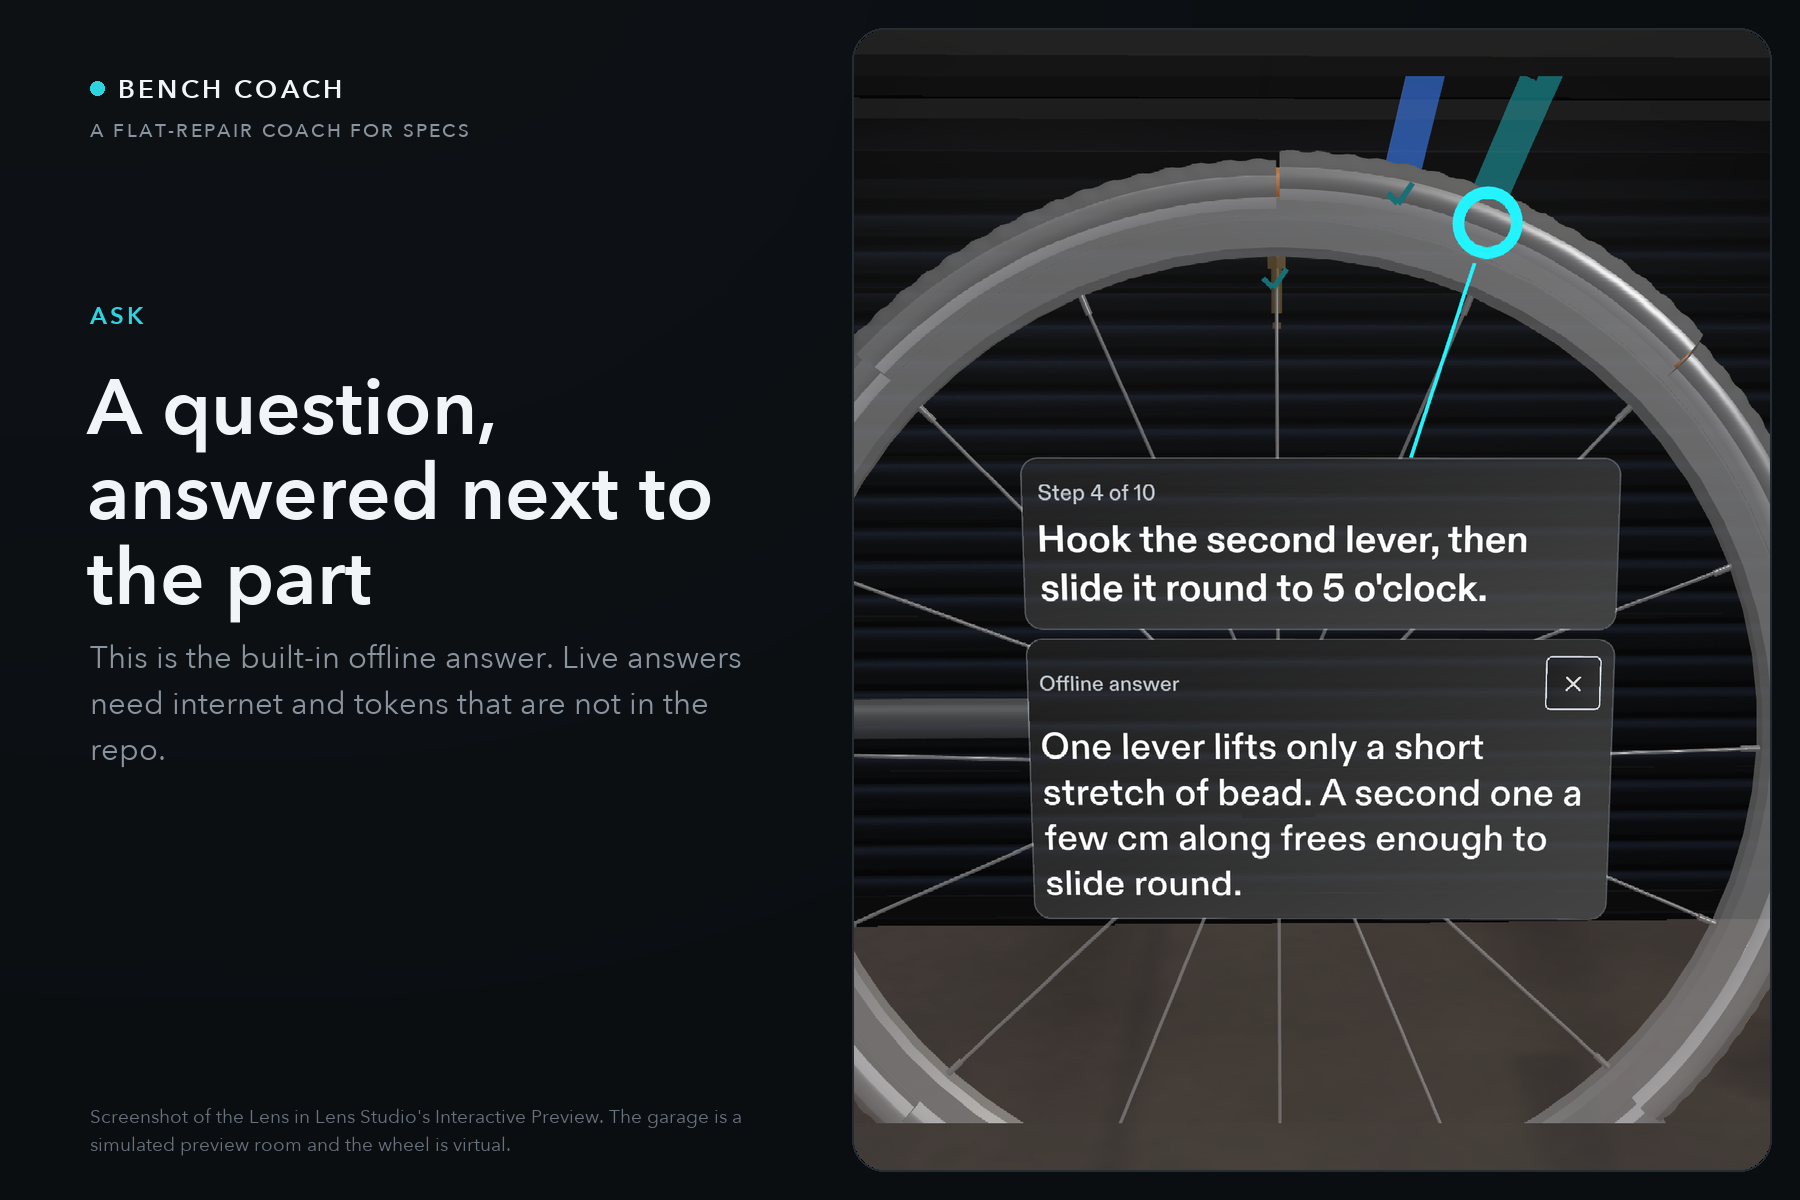
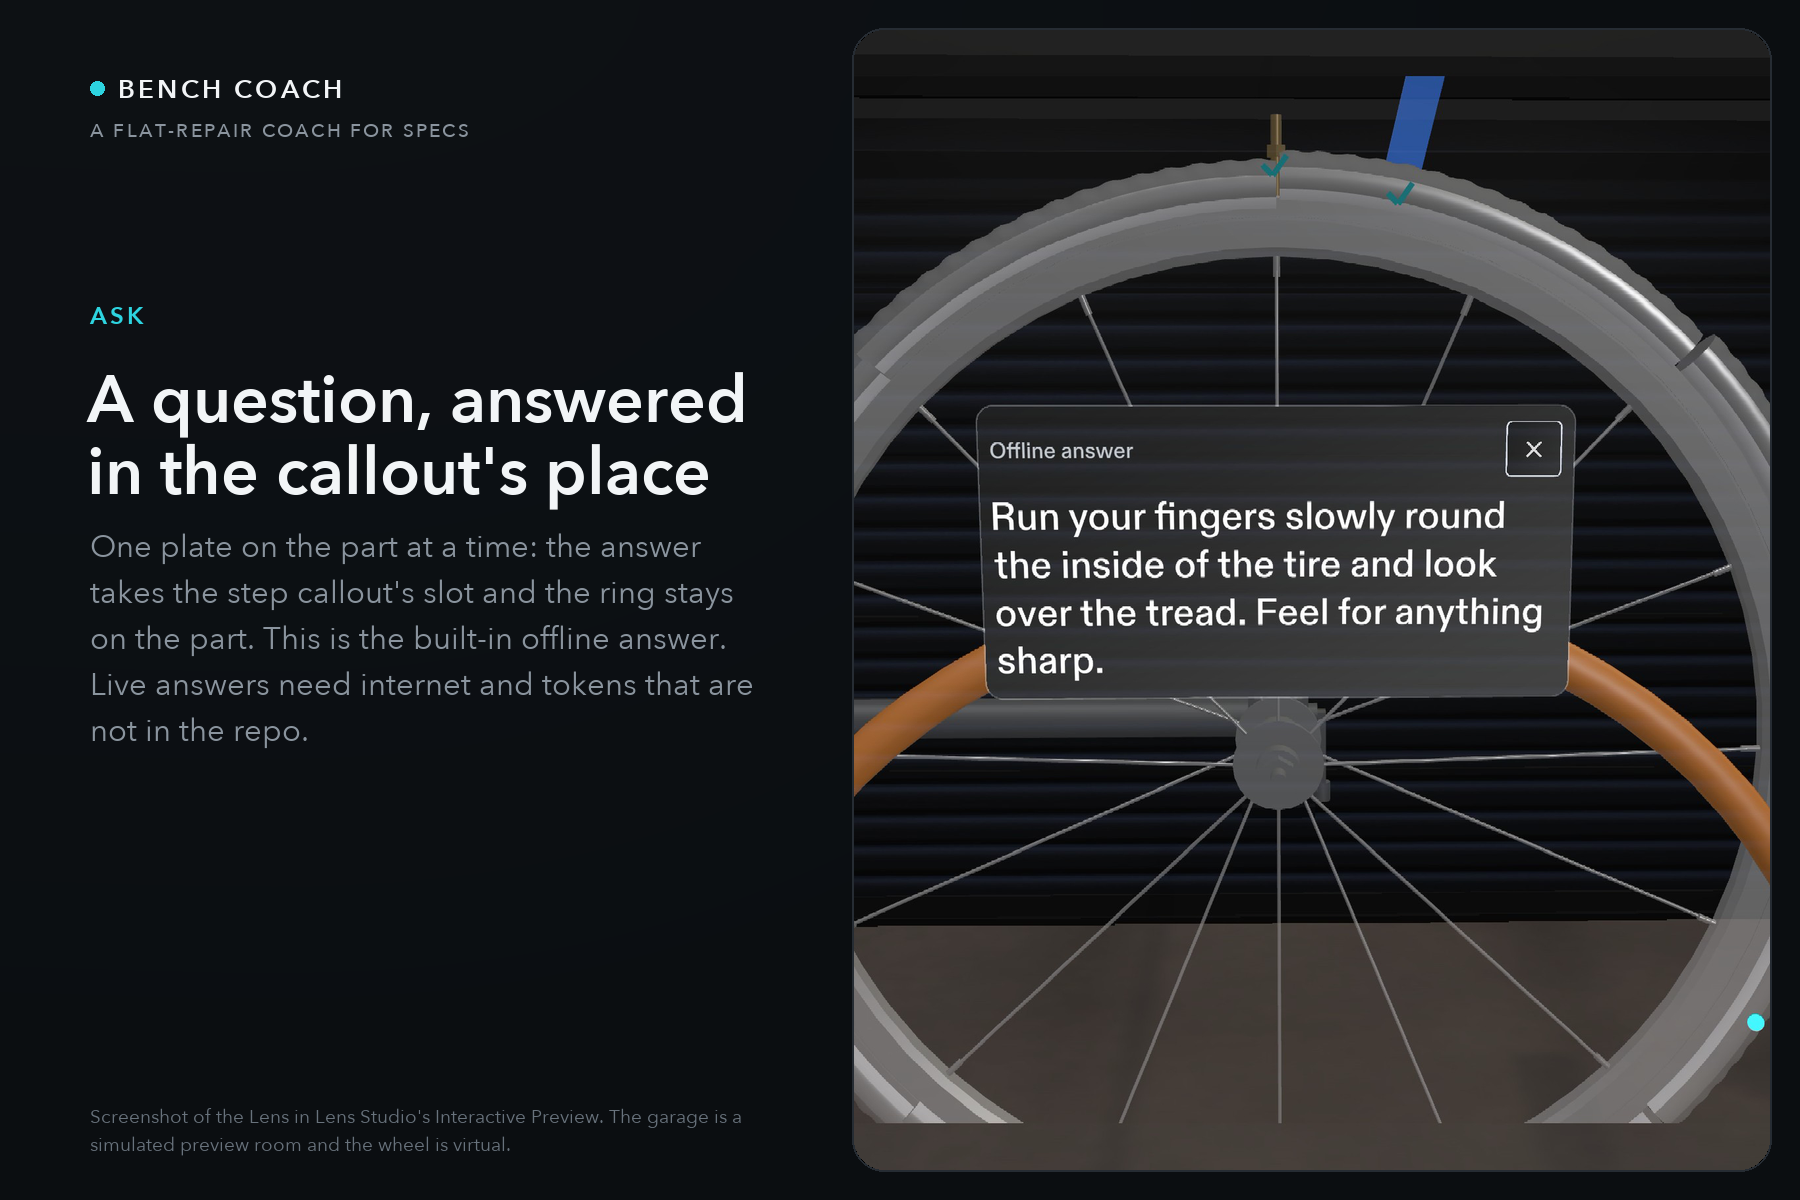
Gallery: the Ask layout and the three-button dock after pass B

diff --git a/README.md b/README.md
@@ -145,6 +145,8 @@ The brief came first: [devpost/design-brief.md](devpost/design-brief.md), writte
 <p>
 <img src="devpost/gallery/01-second-lever.png" alt="Step 4: the second lever on the rim with its callout" width="48%">
 <img src="devpost/gallery/10-finish-card.png" alt="The Finish card: time, one tip, More, Practise, Start over" width="48%">
+<img src="devpost/gallery/14-dock.png" alt="The dock: three buttons, Back, Next, More" width="48%">
+<img src="devpost/gallery/05-ask.png" alt="Ask: the answer in the step callout's place" width="48%">
 </p>
 
 More captures, each labelled: [devpost/gallery/](devpost/gallery/).
